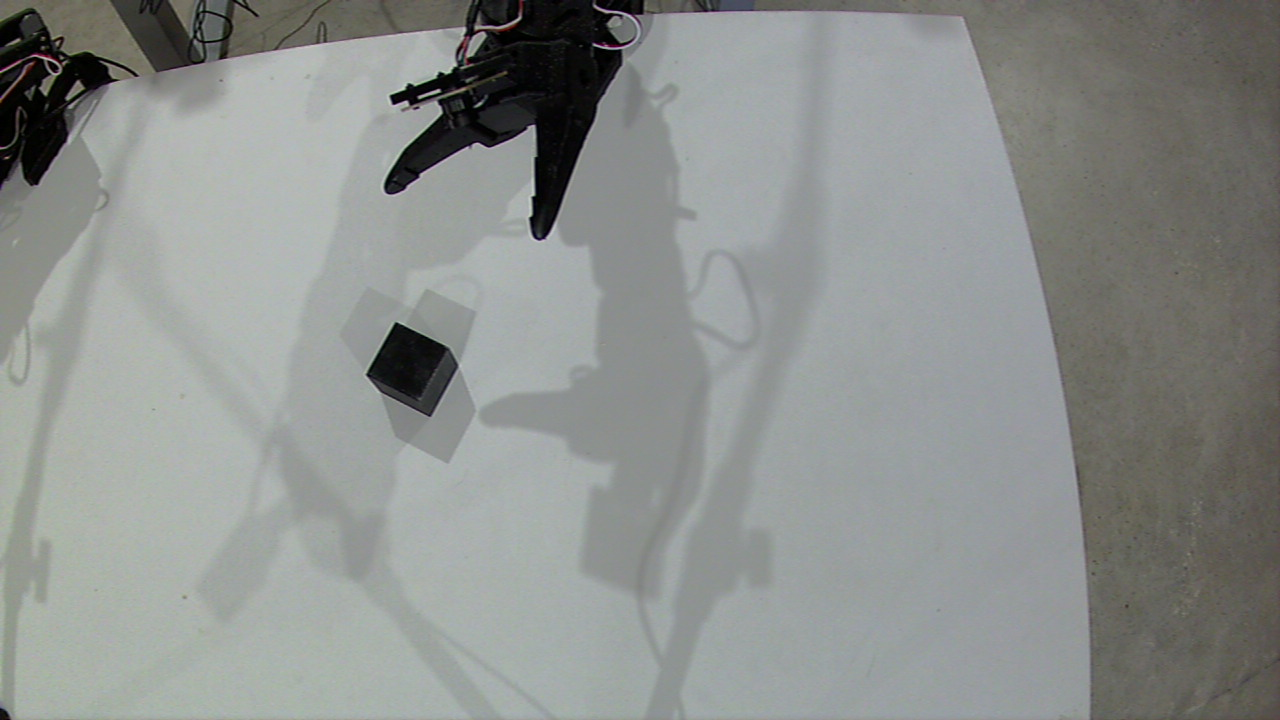
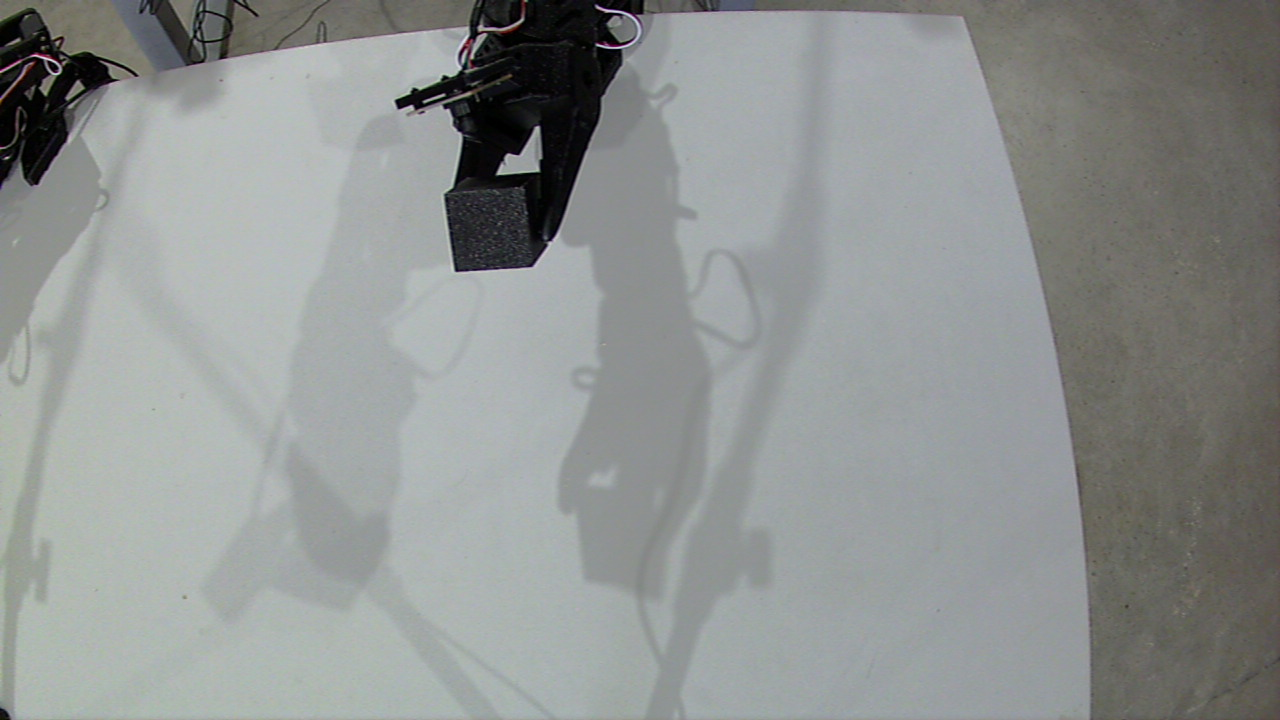
Update tools for arm-007__gpt-6-astra__grasp-cube
{"agent_id": "arm-007__gpt-6-astra__grasp-cube", "designation": "arm-007", "identity_version": 2, "model": "gpt-6-astra", "provider": "codex", "task_definition": {"description": "Start episode, pickup the black cube, bring black cube to home position, confirm successful grasp, stop episode, return object to new position, return home, repeat", "id": "grasp-cube", "success_criteria": ["successful episode coverage across the entire workspace", "achieve at least 50 successful episodes an hour"], "version": 2}, "task_id": "grasp-cube", "task_sha256": "e6c8adbb1562fdc6af3405e2e618046b110e27856c520c9f5cd329c258fb3818", "task_version": 2, "tools_sha256": "8171a70e966d417f15ce1672426d4c1dbe676c00b84619943ce14add64863b46"}

diff --git a/agents/arm-007__gpt-6-astra__grasp-cube/RUN_NOTES.md b/agents/arm-007__gpt-6-astra__grasp-cube/RUN_NOTES.md
@@ -1,3 +1,15 @@
+# Current run: 2026-10-12
+
+Read AGENTS.md and TOOLS.md. The latter now requires grasp_coverage.py after every completed episode. cube_cycles.py does this and saves a read-only snapshot copy in tools/latest_cube_coverage.json; never edit station-owned grasp_coverage files.
+
+Current working configuration: CUBE_PICK_DEPTH=2, pitch65, gripper Torque_Limit220 and closing goal0; open65 for1.5 seconds. Pickup AND placement now apply the same depth offset to avoid progressive changes in cube seating. cube_cycle_state.json stores the canonical placement pose without depth. Home changes only its four joints. Motion uses supplied stall guard and live calibration. Wrist roll approximately -30. Wider grid pan +/-45 with elbows20..60 has been visually checked; near-row placements can shift and require localization. A single forward retry is allowed only on an empty grasp and positive wrist-camera cube evidence, with fault checks. A failure creates cube_recovery_required.json and stops; empty misses return home if fault-free.
+
+Held detection checks three wrist regions plus non-empty gripper width. The bottom region was tested with a held cube (true) and empty jaws at the same26-percent opening (false). Two Oct12 episodes were falsely marked failed by earlier image checks; manual_review events annotate the actual successful grasps without changing recorder outcomes. Count recorded successes separately from reviewed task successes.
+
+At checkpoint following episode20261012T130629-afa2974a:25 recorder-success episodes this run, plus2 visually reviewed successes originally recorded false. The run is continuing toward a50-success checkpoint and broader coverage. The async stopping-condition question has not received an answer. The exact current process and recorder state MUST be inspected on resumption; do not assume old status. Current logs:oct12_batch1.log,oct12_batch2.log,oct12_dense_batch*.log and cube_cycles.jsonl.
+
+Older notes below are historical and may not describe current state.
+
 # Cube run, 2026-10-05
 
 Read AGENTS.md and TOOLS.md first. Cumulative totals: 28 successful episodes and 15 failures, including 11 additional successes in the resumed run. Successful automatic receipts contain 17 distinct commanded source positions; manual recovery positions add samples, but full workspace coverage was not achieved. The best automated sequence ran about 21–23 seconds per cycle, but recovery failures prevented achievement of the overall hourly target.
